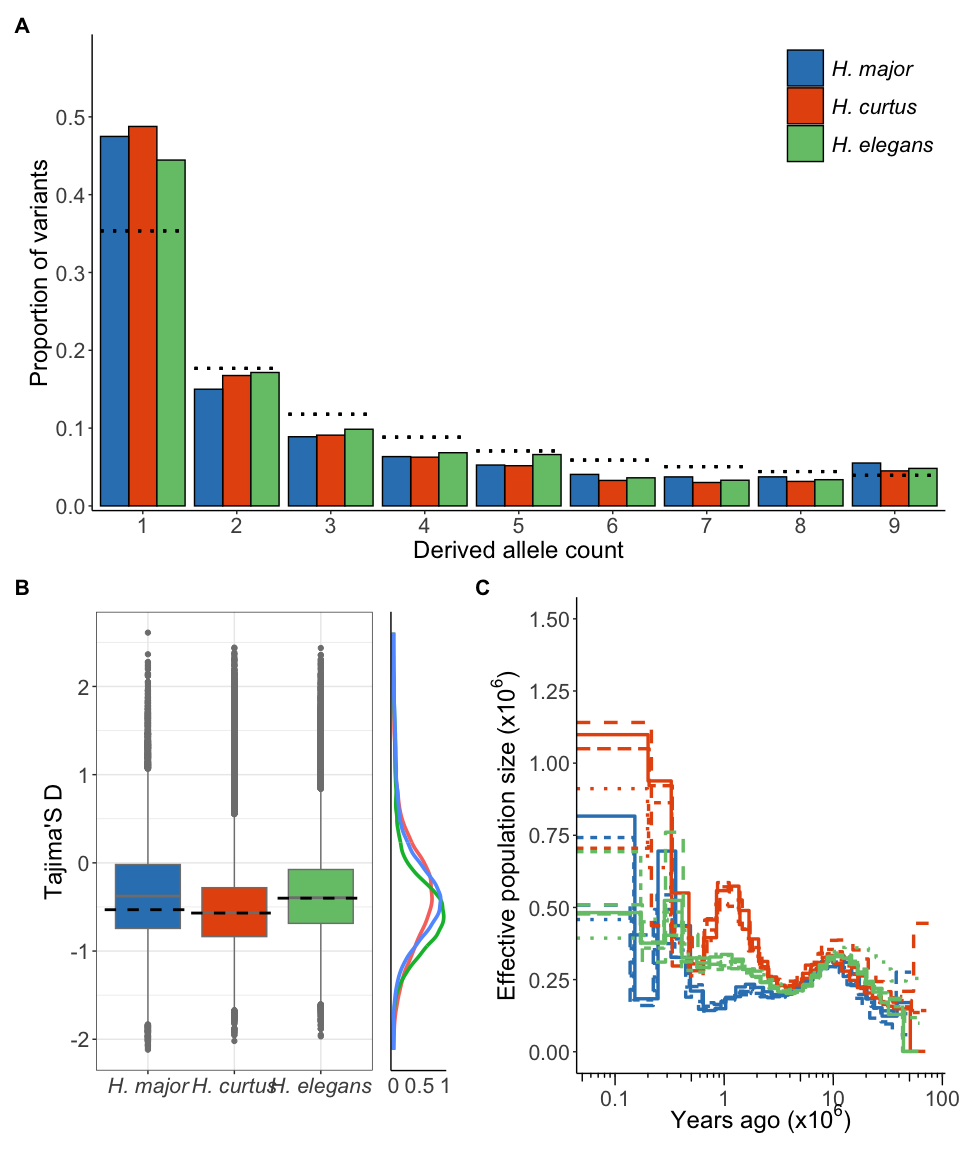
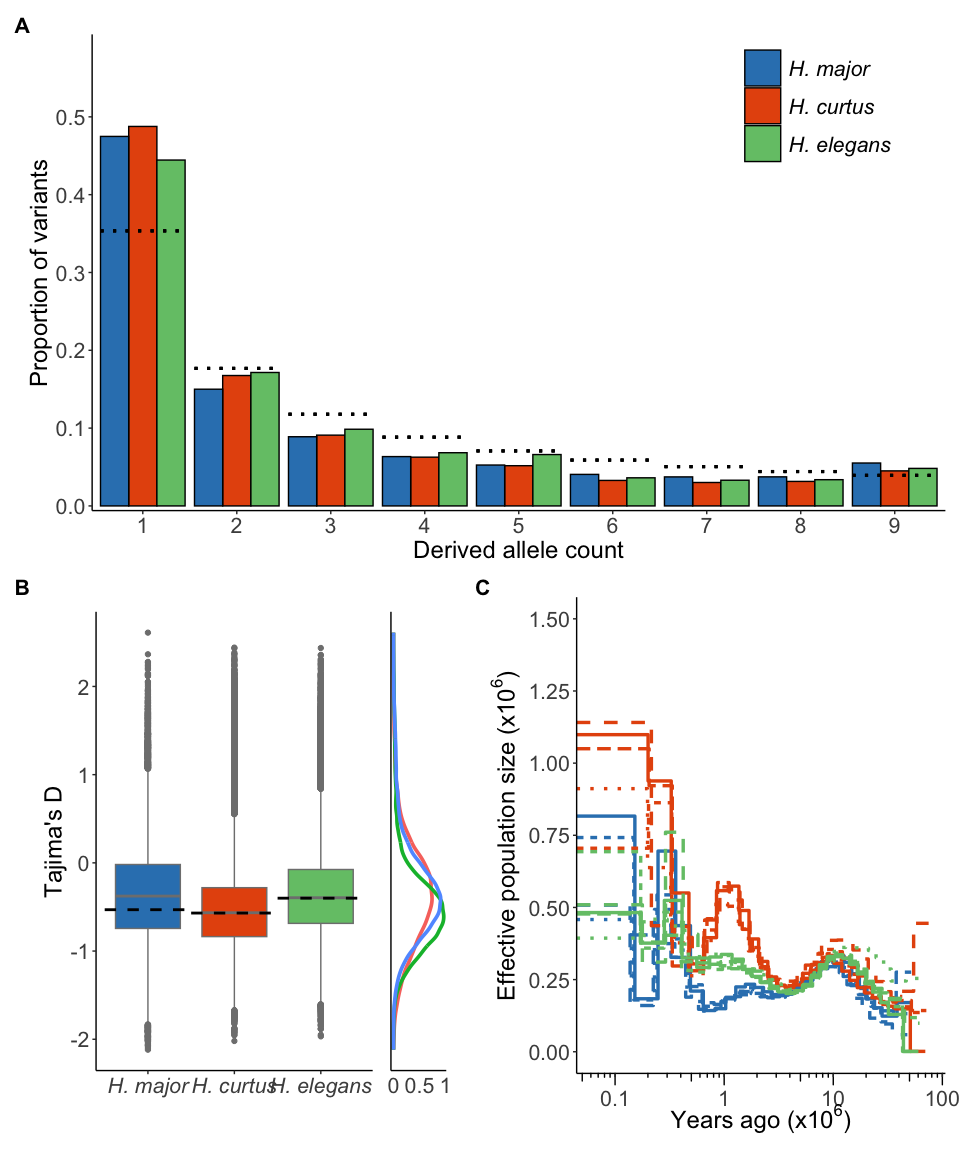
Update figure

Changed region(s): [[0.75, 0.0312, 0.9688, 0.1562], [0.0312, 0.6875, 0.0625, 0.7812]]

diff --git a/results/02-demography/README.md b/results/02-demography/README.md
@@ -1,7 +1,7 @@
 Demography
 ================
 Alastair Ludington
-2025-03-28
+2025-03-30
 
 - [SFS](#sfs)
   - [Data: this manuscript](#data-this-manuscript)
@@ -117,7 +117,7 @@ plot_sfs <- sfs |>
     legend.text = element_text(size = 16,face = "italic"),
     legend.title = element_blank(),
     legend.position = "inside",
-    legend.position.inside = c(0.9, 0.85),
+    legend.position.inside = c(0.85, 0.85),
     legend.key.size = unit(1, "cm")
   )
 
@@ -321,7 +321,7 @@ plot_box <- df_tajD |>
   scale_y_continuous() +
   scale_fill_manual(values = pal_within) +
   labs(x = "") +
-  theme_bw() +
+  theme_classic() +
   theme(
     axis.text.x = element_text(face = "italic"),
     legend.position = 'none'
@@ -355,7 +355,7 @@ plot_box_density <- plot_box + plot_density +
     axes = "collect", axis_titles = "collect",
     guides = 'collect'
   ) &
-  labs(y = "Tajima'S D") &
+  labs(y = "Tajima's D") &
   theme(
     axis.title = element_text(size = 18),
     axis.text = element_text(size = 16),
@@ -426,7 +426,7 @@ df_msmc |>
   gt::as_raw_html()
 ```
 
-<div id="jrzdupanjk" style="padding-left:0px;padding-right:0px;padding-top:10px;padding-bottom:10px;overflow-x:auto;overflow-y:auto;width:auto;height:auto;">
+<div id="bjunqhodbh" style="padding-left:0px;padding-right:0px;padding-top:10px;padding-bottom:10px;overflow-x:auto;overflow-y:auto;width:auto;height:auto;">
   &#10;  <table class="gt_table" data-quarto-disable-processing="false" data-quarto-bootstrap="false" style="-webkit-font-smoothing: antialiased; -moz-osx-font-smoothing: grayscale; font-family: system-ui, 'Segoe UI', Roboto, Helvetica, Arial, sans-serif, 'Apple Color Emoji', 'Segoe UI Emoji', 'Segoe UI Symbol', 'Noto Color Emoji'; display: table; border-collapse: collapse; line-height: normal; margin-left: auto; margin-right: auto; color: #333333; font-size: 16px; font-weight: normal; font-style: normal; background-color: #FFFFFF; width: auto; border-top-style: solid; border-top-width: 2px; border-top-color: #A8A8A8; border-right-style: none; border-right-width: 2px; border-right-color: #D3D3D3; border-bottom-style: solid; border-bottom-width: 2px; border-bottom-color: #A8A8A8; border-left-style: none; border-left-width: 2px; border-left-color: #D3D3D3;" bgcolor="#FFFFFF">
   <thead style="border-style: none;">
     <tr class="gt_col_headings" style="border-style: none; border-top-style: solid; border-top-width: 2px; border-top-color: #D3D3D3; border-bottom-style: solid; border-bottom-width: 2px; border-bottom-color: #D3D3D3; border-left-style: none; border-left-width: 1px; border-left-color: #D3D3D3; border-right-style: none; border-right-width: 1px; border-right-color: #D3D3D3;">
